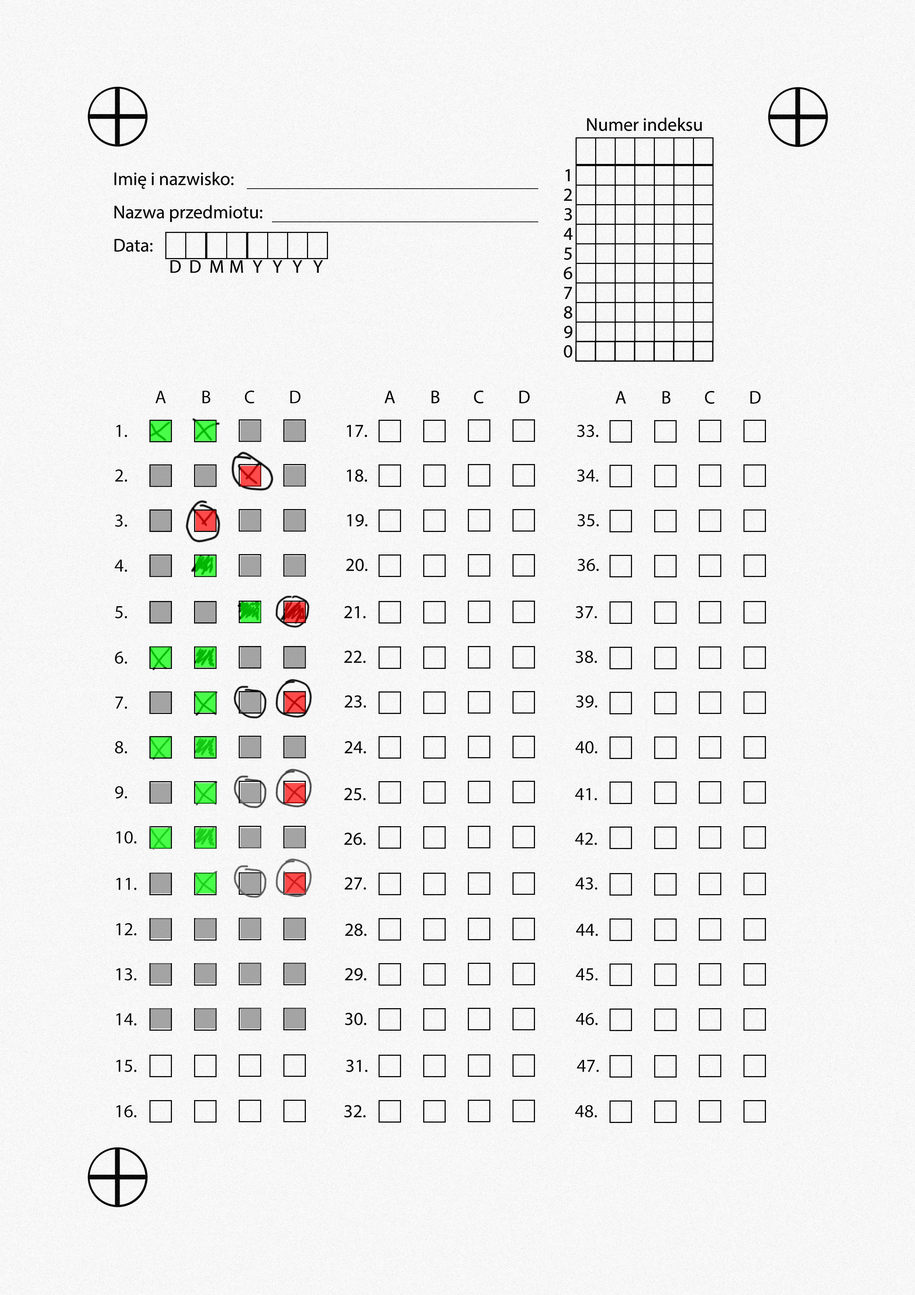
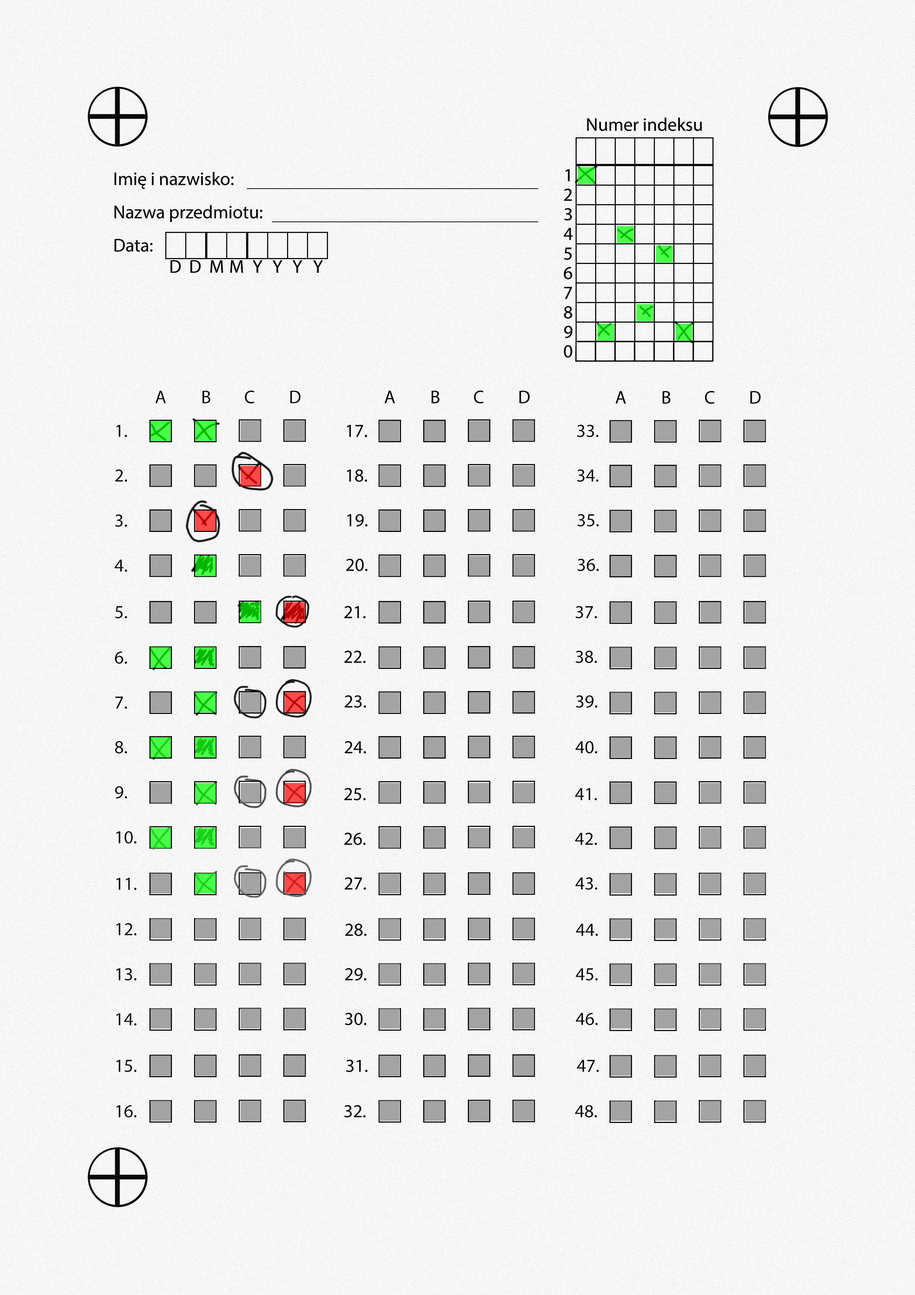
eliminated redundant

diff --git a/main.py b/main.py
@@ -191,16 +191,16 @@ def is_circled(img, center_x, center_y, box_size, proximity, dark_pixel_threshol
 
 def is_marked(box, isCheckingId = False):
     global id_box_width, id_box_height, marking_threshold_factor, box_width, box_height
+
+    threshold = marking_threshold_factor
+
     if(isCheckingId):
-        threshold = marking_threshold_factor * id_box_width * id_box_height
-        non_white_pixels = np.sum(box < 255)  # Count non-white pixels
-        return non_white_pixels < threshold
+        threshold *= id_box_width * id_box_height
     else:
-        # Simple heuristic: if the number of non-white pixels exceeds a threshold, it's marked
-        # threshold = config['marking_threshold']
-        threshold = marking_threshold_factor * box_width * box_height
-        non_white_pixels = np.sum(box < 255)  # Count non-white pixels
-        return non_white_pixels < threshold
+        threshold *= box_width * box_height
+
+    non_white_pixels = np.sum(box < 255)  # Count non-white pixels
+    return non_white_pixels < threshold
 
 def compare_matrices(template_matrix, example_matrix):
     score = 0
@@ -237,22 +237,6 @@ students_ids_array = []
 students_results_array = []
 students_scored_points_array = []
 
-def overlay_rectangle_student_id(img, top_left, box_size, color, opacity=0.5):
-    """
-    Overlays a semi-transparent square on the image.
-    
-    Parameters:
-    - img: The image to overlay on.
-    - top_left: Tuple (x, y) of the top left corner of the square.
-    - box_size: The size (width and height) of the square.
-    - color: Tuple (B, G, R) specifying the color of the square.
-    - opacity: Opacity of the overlay.
-    """
-    overlay = img.copy()
-    bottom_right = (top_left[0] + box_size, top_left[1] + box_size)
-    cv2.rectangle(overlay, top_left, bottom_right, color, -1)
-    cv2.addWeighted(overlay, opacity, img, 1 - opacity, 0, img)
-
 # Analyze all images
 for index, paper_to_check in enumerate(paper_to_check_image_aligned_array): 
     print(f"Analizowanie pracy {index+1} z {len(paper_to_check_image_aligned_array)}")
@@ -275,7 +259,7 @@ for index, paper_to_check in enumerate(paper_to_check_image_aligned_array):
                 student_id += str(row)  # Append the detected digit
 
                 # Draw a green rectangle around the detected box
-                overlay_rectangle_student_id(paper_to_check_color, (x, y), id_box_width, LIGHT_GREEN)
+                overlay_rectangle(paper_to_check_color, (x, y), (x + id_box_width, y + id_box_height), LIGHT_GREEN)
 
                 break
         else:
@@ -286,7 +270,7 @@ for index, paper_to_check in enumerate(paper_to_check_image_aligned_array):
     if(" " in student_id or len(student_id) < 6):
         print(f"Błąd w odczycie indeksu dla pracy nr {index}")
         student_id = "------"
-        
+
     students_ids_array.append(student_id)
 
     # DETECT MARKED (AND CIRCLED) ANSWERS, RETURN ARRAY
